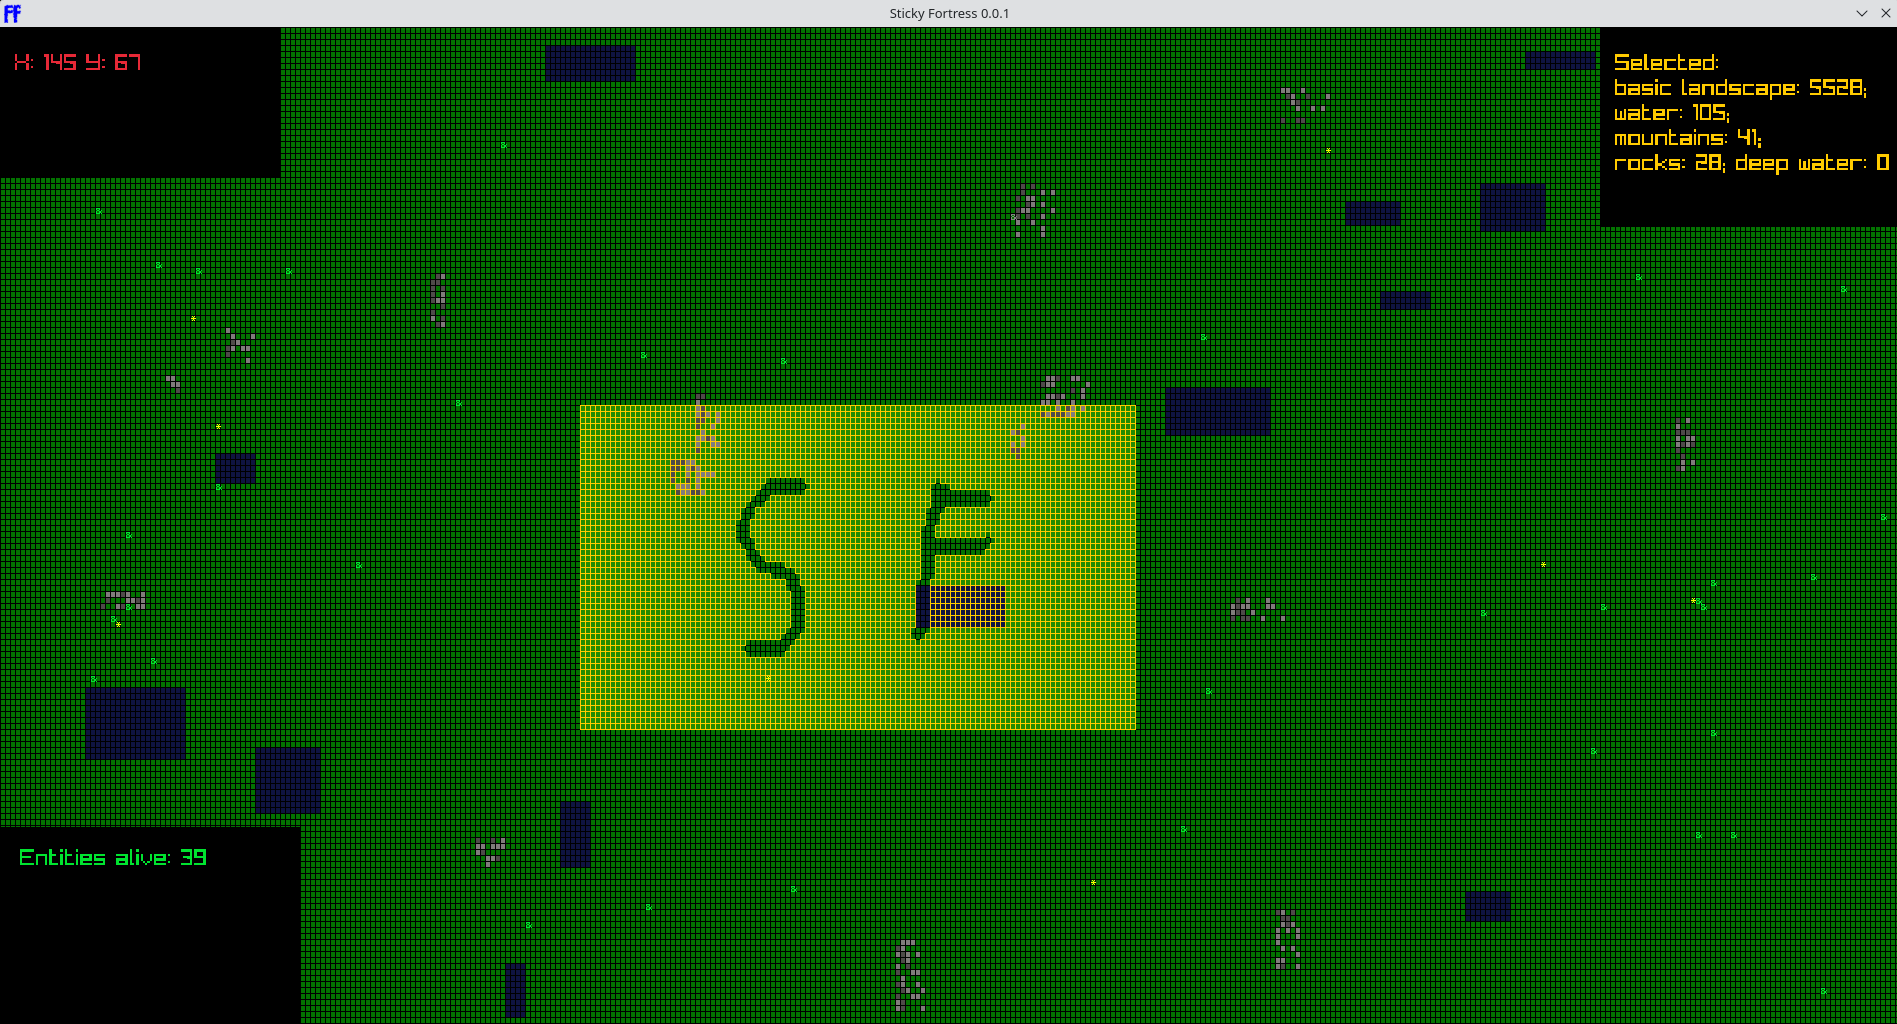
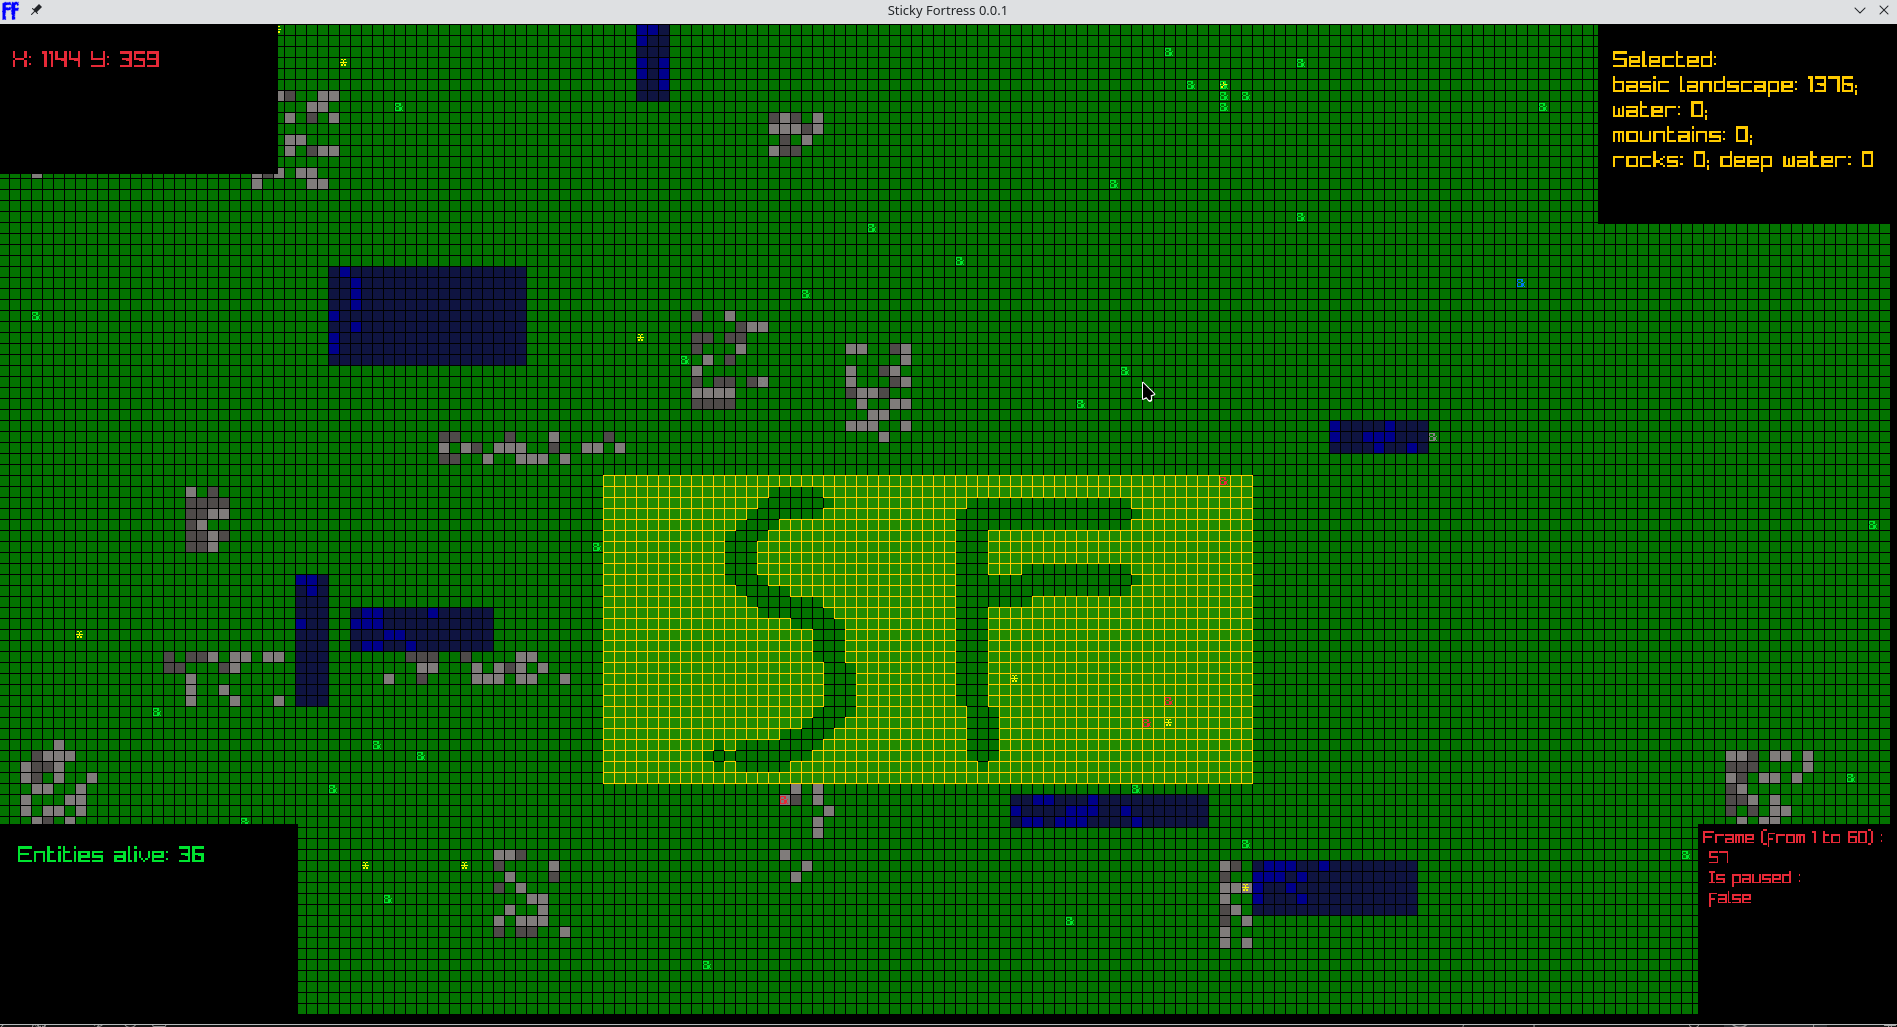
Updated plan.md & readme.md

diff --git a/prevTesting/main.c b/prevTesting/main.c
@@ -103,9 +103,9 @@ int main()
 
     SetExitKey(KEY_NULL); // Window willn't close on ESC button
 
-    Image windowIcon = LoadImage("./images/windowIcon.png");
+    Image windowIcon = LoadImage("./images/windowIcon.png"); // loading icon
 
-    if (windowIcon.format != PIXELFORMAT_UNCOMPRESSED_R8G8B8A8) // formatting image
+    if (windowIcon.format != PIXELFORMAT_UNCOMPRESSED_R8G8B8A8) // formatting icon
     {
         ImageFormat(&windowIcon, PIXELFORMAT_UNCOMPRESSED_R8G8B8A8);
     }
@@ -131,7 +131,7 @@ int main()
 
         fps = GetFPS();
 
-        if (IsKeyPressed(KEY_SPACE)) {
+        if (IsKeyPressed(KEY_SPACE)) { // pause
             isPaused = !isPaused;
         }
 
@@ -172,7 +172,7 @@ int main()
 
         ClearBackground(BLACK); // clear background
 
-        for (int u = 0; u < 5; u++)
+        for (int u = 0; u < 5; u++) // reset selected landscape cells stats
         {
             selectedCells[u] = 0;
         }
@@ -181,10 +181,11 @@ int main()
         {
             for (int y = 0; y < world->mapSize.y; y++)
             {
-                if (world->map[x+world->mapSize.x*y].isSelected == 1)
+                if (world->map[x+world->mapSize.x*y].isSelected == 1) // if cell is selected
                 {
-                    DrawRectangle(x * rectSizeX, y * rectSizeY, rectSizeX + 1, rectSizeY + 1, GOLD);
+                    DrawRectangle(x * rectSizeX, y * rectSizeY, rectSizeX + 1, rectSizeY + 1, GOLD); 
 
+                    // Update selected landscape cells stats
                     if (world->map[x+world->mapSize.x*y].landType.gameId == LAND_BASIC)
                     {
                         selectedCells[0]++;
@@ -253,7 +254,7 @@ int main()
 
                 squareSelectingFreeze = 10;
             }
-        } else if (IsMouseButtonDown(MOUSE_RIGHT_BUTTON))  // Stub
+        } else if (IsMouseButtonDown(MOUSE_RIGHT_BUTTON))  // Stub for deselecting
         {
             world->map[(mousePosition.x/rectSizeX) + world->mapSize.x * (mousePosition.y/rectSizeY)].isSelected = false;
 

diff --git a/prevTesting/modules/generate.h b/prevTesting/modules/generate.h
@@ -56,7 +56,7 @@ void generateStructure(World *world)
     {
         for (int g = 0; g < zoneMaxLongY; g++)
         {
-            if (!(structure.landscape.gameId == LAND_MOUNTAINS))
+            if (!(structure.landscape.gameId == LAND_MOUNTAINS)) // water
             {
                 structure.incomingCellsCoords[j].x = zoneStartCoord.x + l;
                 structure.incomingCellsCoords[j].y = zoneStartCoord.y + g;
@@ -65,7 +65,7 @@ void generateStructure(World *world)
                     return;
                 }
 
-                if (20 + (rand() % pondBorder)/2 >= pond) {
+                if ((zoneMaxLongY/2) + (rand() % pondBorder)/2 >= pond) {
                     world->map[(zoneStartCoord.x + l) + world->mapSize.x * (zoneStartCoord.y + g)].landType = structure.secondLandscape;
                 } else {
                     world->map[(zoneStartCoord.x + l) + world->mapSize.x * (zoneStartCoord.y + g)].landType = structure.landscape;
@@ -73,7 +73,7 @@ void generateStructure(World *world)
                 
                 j++;
             }
-            else
+            else // mountains
             {
                 if (((rand() % pondBorder) - 20) > pond)
                 {

diff --git a/prevTesting/modules/controllers/world.h b/prevTesting/modules/controllers/world.h
@@ -72,7 +72,7 @@ void createEntities(World *world, int entitiesNumber, int textBufferSize, struct
         char *entityGameId = malloc(textBufferSize);
         sprintf(entityGameId, "%d", x);
 
-        Entity ent = {entityGameId, "Human", true, true, "&", entX, entY, UNTARGET_MOVING, -1, 0, 0, 0, rand () % 10 + rand () % 10, 0, RED};
+        Entity ent = {entityGameId, "Human", true, true, "&", entX, entY, UNTARGET_MOVING, -1, 0, 0, 0, rand () % 100 + rand () % 50, 0, RED};
         //                             humanity   is                                target target hunger die level sleepiness
         //                                       alive                           food id   cell coords    hunger   
         

diff --git a/prevTesting/plan.md b/prevTesting/plan.md
@@ -57,8 +57,10 @@
    1. Сделать переменную `ifSquareSelectingActive`. Каждый тик проверять, нажата ли ЛКМ. Если нажата - изменить `ifSquareSelectingActive` на противоположное и установить некоторый freeze на смену её значения. ✔
    2. Сделать переменную `squareSelectingStartCellCoords`. Когда `ifSquareSelectingActive` меняется на `true` - установить `squareSelectingStartCellCoords` в координаты мыши. Когда `ifSquareSelectingActive` меняется на `false` - выделить все клетки от `squareSelectingStartCellCoords` до текущих координат мыши(пока-что сделать просто выделение слева-направо сверху-вниз). ✔
 
-2) Создать структуру-базу данных, где хранить все переменные вроде `WindowSize` и `FoodOnMap` (можно назвать `dataLord`)
-
+2) Сделать что-то из этого:  Хранить все переменные вроде `foodmap` и `windowSize` в одном большом лорде 
+ ИЛИ
+                             Сделать несколько маленьких лордов для хранения данных из разных частей системы
+                        
 3) Перенести все обновление(то что сейчас лежит в апдейте таймера) в единую систему (можно назвать `updateLord`)
 
 4) Добавить функцию сохранения мира в файл:
@@ -72,5 +74,9 @@
    1. Улучшить выделение прямоугольником:
       1. Искать (`минимальный x` между `squareSelectingStartCellCoord.x` и `mousePosition.x`; `максимальный y` между `squareSelectingStartCellCoord.y` и `mousePosition.y`) и затем как обычно рисовать прямоугольник с этих координат по (`максимальный x` между `squareSelectingStartCellCoord.x` и `mousePosition.x`; `минимальный y` между `squareSelectingStartCellCoord.y` и `mousePosition.y`)
 
-   1. Улучшить генерацию:
-      2. Добавить глубокую воду в алгоритм генерации
+   2. Улучшить генерацию:
+      1. Сделать генерацию более алгоритмичной - убрать магические числа
+      2. Сделать нормальную генерацию глубокой воды
+
+   3. Улучшить сущностей:
+      1. В девяносто четыре миллиарда двести девяносто пять миллионов семьсот восемьдесят две тысячи семьсот двадцать третий раз попытатся сделать обход препятствий

diff --git a/README.md b/README.md
@@ -4,8 +4,7 @@
 
 A clone of dwarf fortress on C with using Raylib. Right now in prototype stage.
 
-<!-- ![alt text](./prevTesting/images/game_working.png) -->
-![Image alt](./prevTesting/images/game_working_gif.gif)
+![alt text](./prevTesting/images/game_working.png)
 
 ## Installation & running (Linux)
 